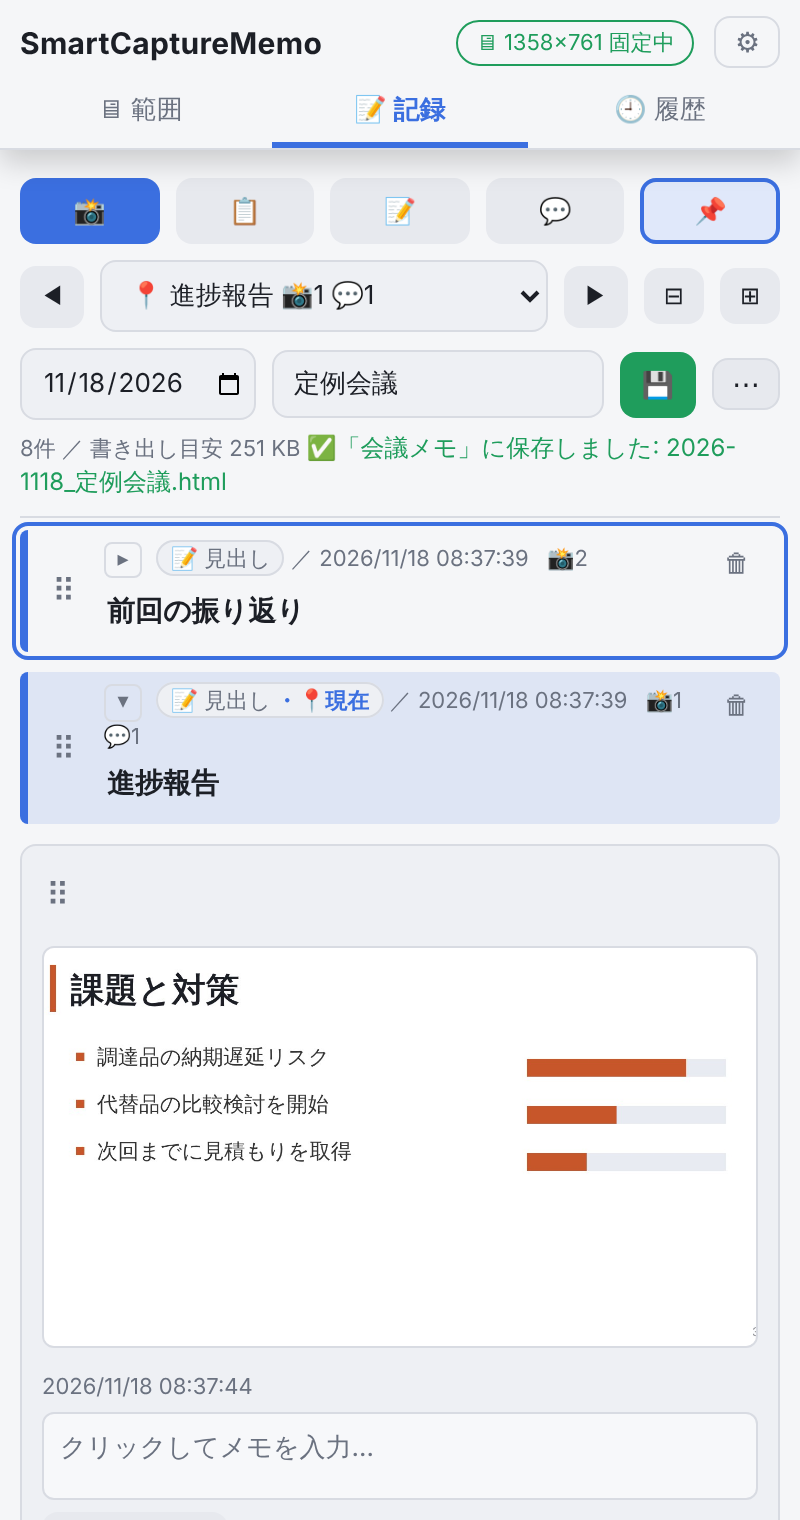
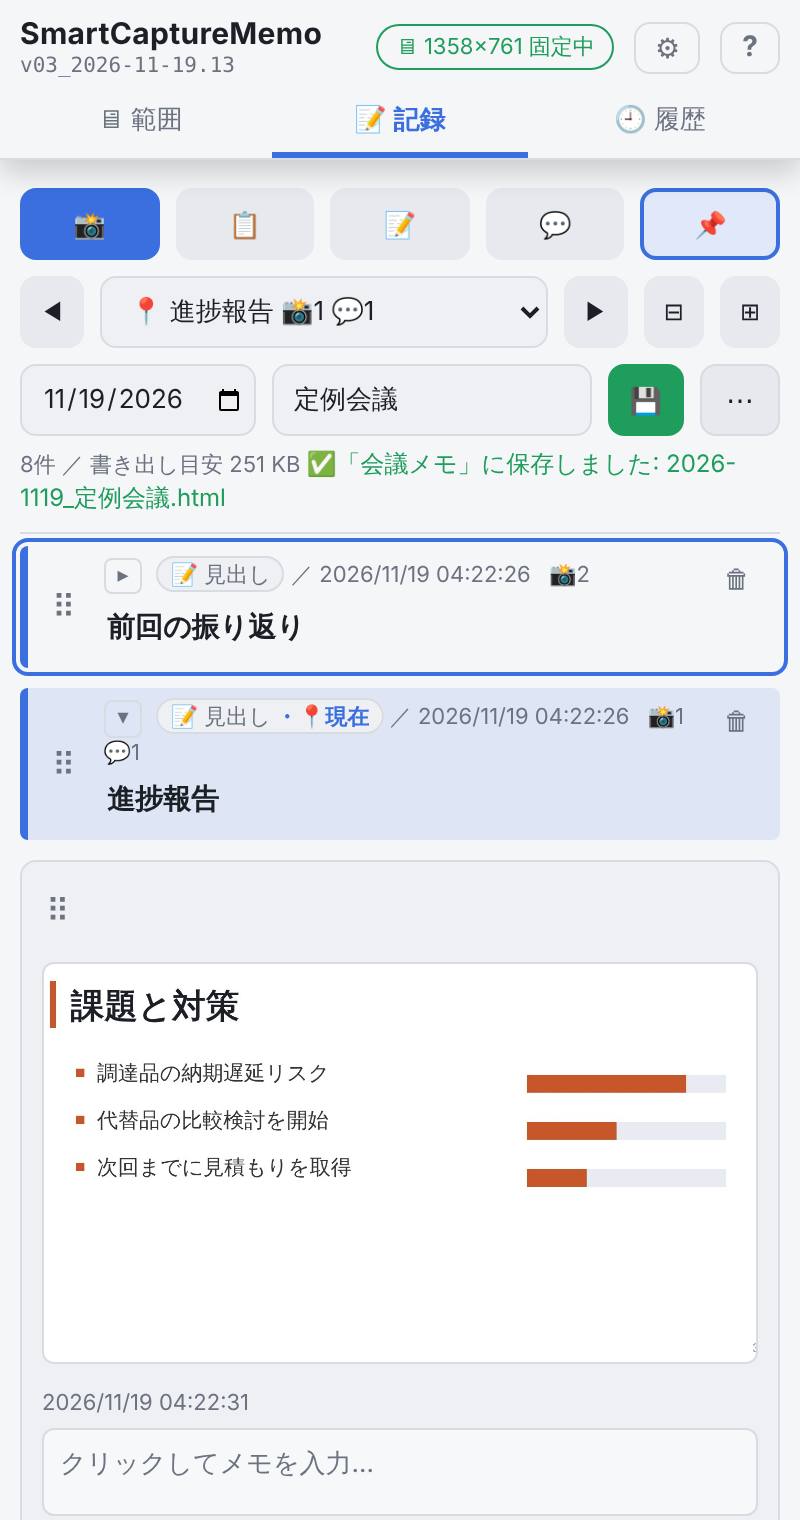
SmartCaptureMemo help: 最新の機能を追記しスクリーンショットを撮り直し
- ウィンドウ/タブ共有時もフォーカスがこの画面に残ること、共有中のウィンドウサイズ変更への追従、
  全画面固定時のチップ表示、拡大表示右上のボタン類(コメントON/OFF・位置・閉じる)を追記
- help-images を現行UI(v03_2026-11-19.13)で撮り直し

Claude-Session: https://claude.ai/code/session_01YFt5PcScnp5RMTFYd4nYm6

diff --git a/SmartCaptureMemo/help.html b/SmartCaptureMemo/help.html
@@ -259,11 +259,15 @@
   <h2 id="range">画面共有と範囲固定</h2>
   <ol>
     <li><strong>画面共有を開始</strong>をクリックすると、ブラウザの共有ダイアログが開きます。<strong>タブ</strong>・<strong>ウィンドウ</strong>・<strong>画面全体</strong>のいずれかを選び「共有」を押します(他アプリの画面を撮りたい場合は「ウィンドウ」または「画面全体」)。</li>
-    <li>映像をドラッグして撮影したい範囲を指定し<strong>範囲固定</strong>を押します。範囲を選ばず<strong>🖥 全画面</strong>を押せば、共有した映像をそのまま使えます。</li>
+    <li>映像をドラッグして撮影したい範囲を指定し<strong>範囲固定</strong>を押します。範囲を選ばず<strong>🖥 全画面</strong>を押せば、共有した映像をそのまま使えます(右上のチップが「🖥 全画面で撮影」になります)。</li>
     <li>縦横比を揃えたい場合は、固定前に比率(フリー/16:9/9:16/4:3/3:4/1:1/3:2)を選んでおきます。</li>
     <li>範囲内をドラッグで位置移動、四隅の丸で拡大縮小、辺の丸で幅または高さだけ変更できます。矢印キーでも位置を微調整できます(<kbd>Shift</kbd>で大きく移動)。</li>
   </ol>
   <p>範囲を固定すると自動で<strong>記録タブ</strong>へ移り、対応ブラウザでは<a href="#pip">常時表示ウィンドウ</a>も開きます。範囲を変えたいときは範囲タブ(または右上のチップ)から戻って固定し直してください。他のタブを表示している間も共有の映像は更新され続けます。</p>
+  <ul>
+    <li><strong>ウィンドウ/タブを共有しても、フォーカスはこの画面に残ります</strong>(共有したウィンドウが前面に出てこないので、そのまま範囲指定を続けられます。Edge/Chrome)。</li>
+    <li><strong>共有中にウィンドウの大きさが変わった場合</strong>:「🖥 全画面」で固定しているときは、撮影のたびにその時点のウィンドウ全体を撮ります。範囲を固定しているときは、範囲の位置(左上基準)はそのままに、ウィンドウからはみ出す部分だけ切り詰めます。</li>
+  </ul>
   <figure class="shot"><img src="help-images/range-idle.png" alt="範囲タブ(共有開始前)"><figcaption>共有開始前</figcaption></figure>
   <figure class="shot"><img src="help-images/share-picker.png" alt="ブラウザの共有ダイアログ"><figcaption>ブラウザの共有ダイアログ</figcaption></figure>
   <figure class="shot"><img src="help-images/range-select.png" alt="範囲の指定"><figcaption>範囲の指定(比率16:9)</figcaption></figure>
@@ -400,7 +404,7 @@
     <tr><td>▦ PDF: N枚/ページ</td><td>印刷・PDF化向けのグリッド(2・3・4・6枚/ページ)。「コメント表示」でメモの表示を切り替えられます</td></tr>
     <tr><td>▤ PDF: ノート</td><td>画像を左、メモを右に並べたレイアウト</td></tr>
   </table>
-  <p>画像をクリックすると(ツール本体・書き出しHTMLとも)スライドショーのように拡大表示します。コメント表示がONのときは、コメントの有無に関わらずコメント欄の高さを確保して画像の大きさを揃え、長いコメントは欄の中でスクロールできます。画像は小さいものも画面に収まる最大サイズで表示され、ホイールで拡大縮小、ドラッグで移動、左右キーで前後の画像に切り替えられます。右上の「💬 コメント」(または <kbd>C</kbd> キー)でメモのキャプション表示をON/OFFでき、設定はブラウザに記憶されます。</p>
+  <p>画像をクリックすると(ツール本体・書き出しHTMLとも)スライドショーのように拡大表示します。コメント表示がONのときは、コメントの有無に関わらずコメント欄の高さを確保して画像の大きさを揃え、長いコメントは欄の中でスクロールできます。画像は小さいものも画面に収まる最大サイズで表示され、ホイールで拡大縮小、ドラッグで移動、左右キーで前後の画像に切り替えられます。右上の「💬 コメント ON/OFF」(または <kbd>C</kbd> キー)でメモのキャプション表示を切り替えられ、設定はブラウザに記憶されます。右上には何枚目か(例: 3 / 12)と、閉じるボタン ✕ も表示されます。</p>
   <div class="shotRow">
     <figure class="shot"><img src="help-images/export-list.png" alt="一覧表示"><figcaption>一覧表示</figcaption></figure>
     <figure class="shot"><img src="help-images/export-grid.png" alt="PDF用グリッド"><figcaption>PDF用: グリッド</figcaption></figure>
